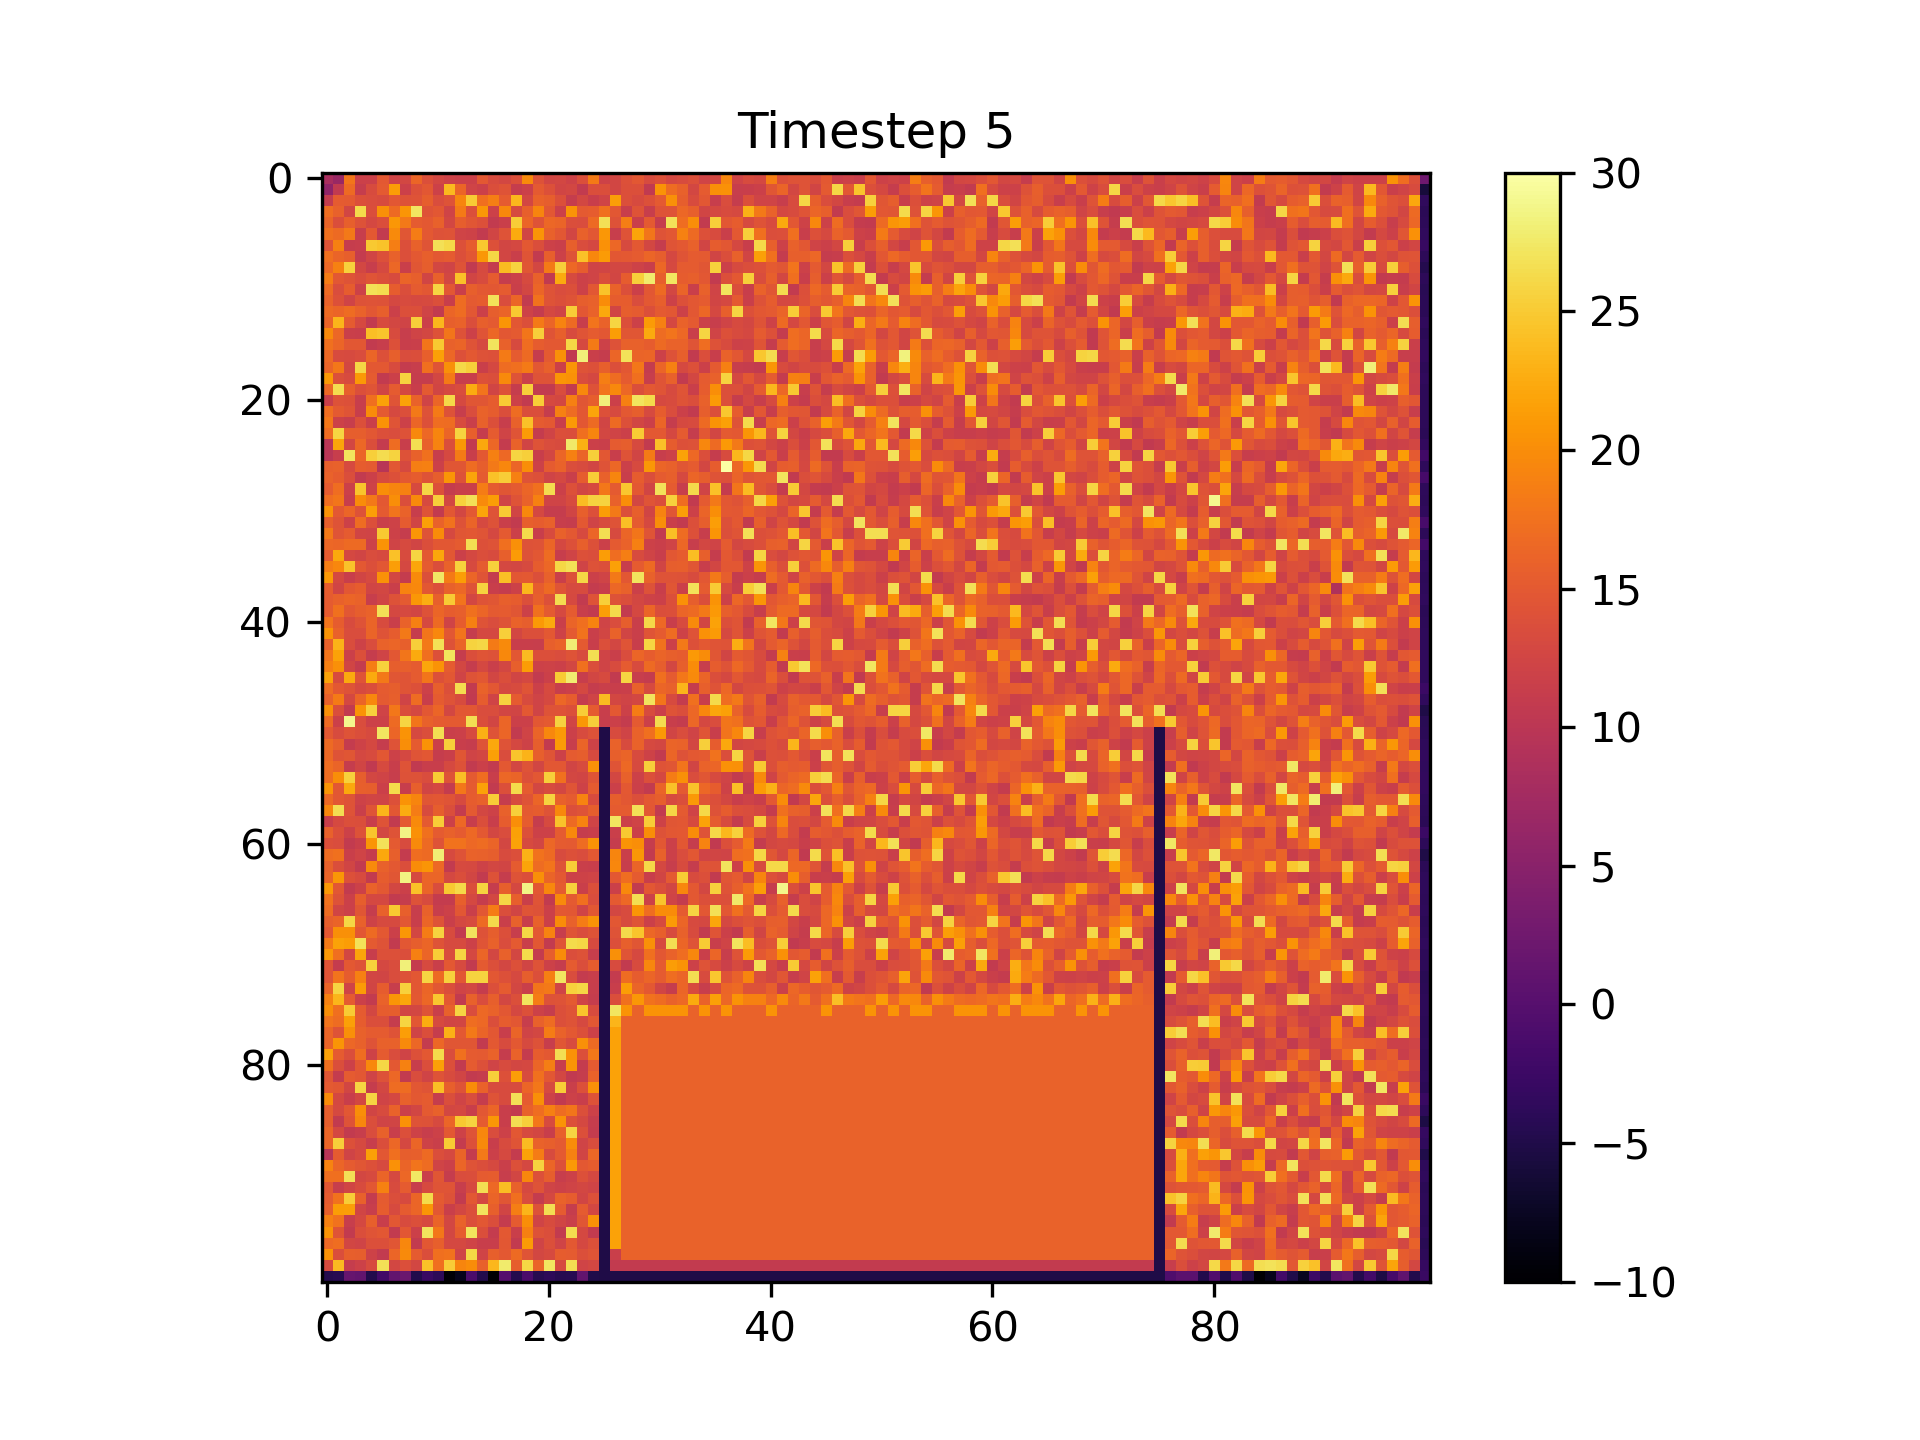
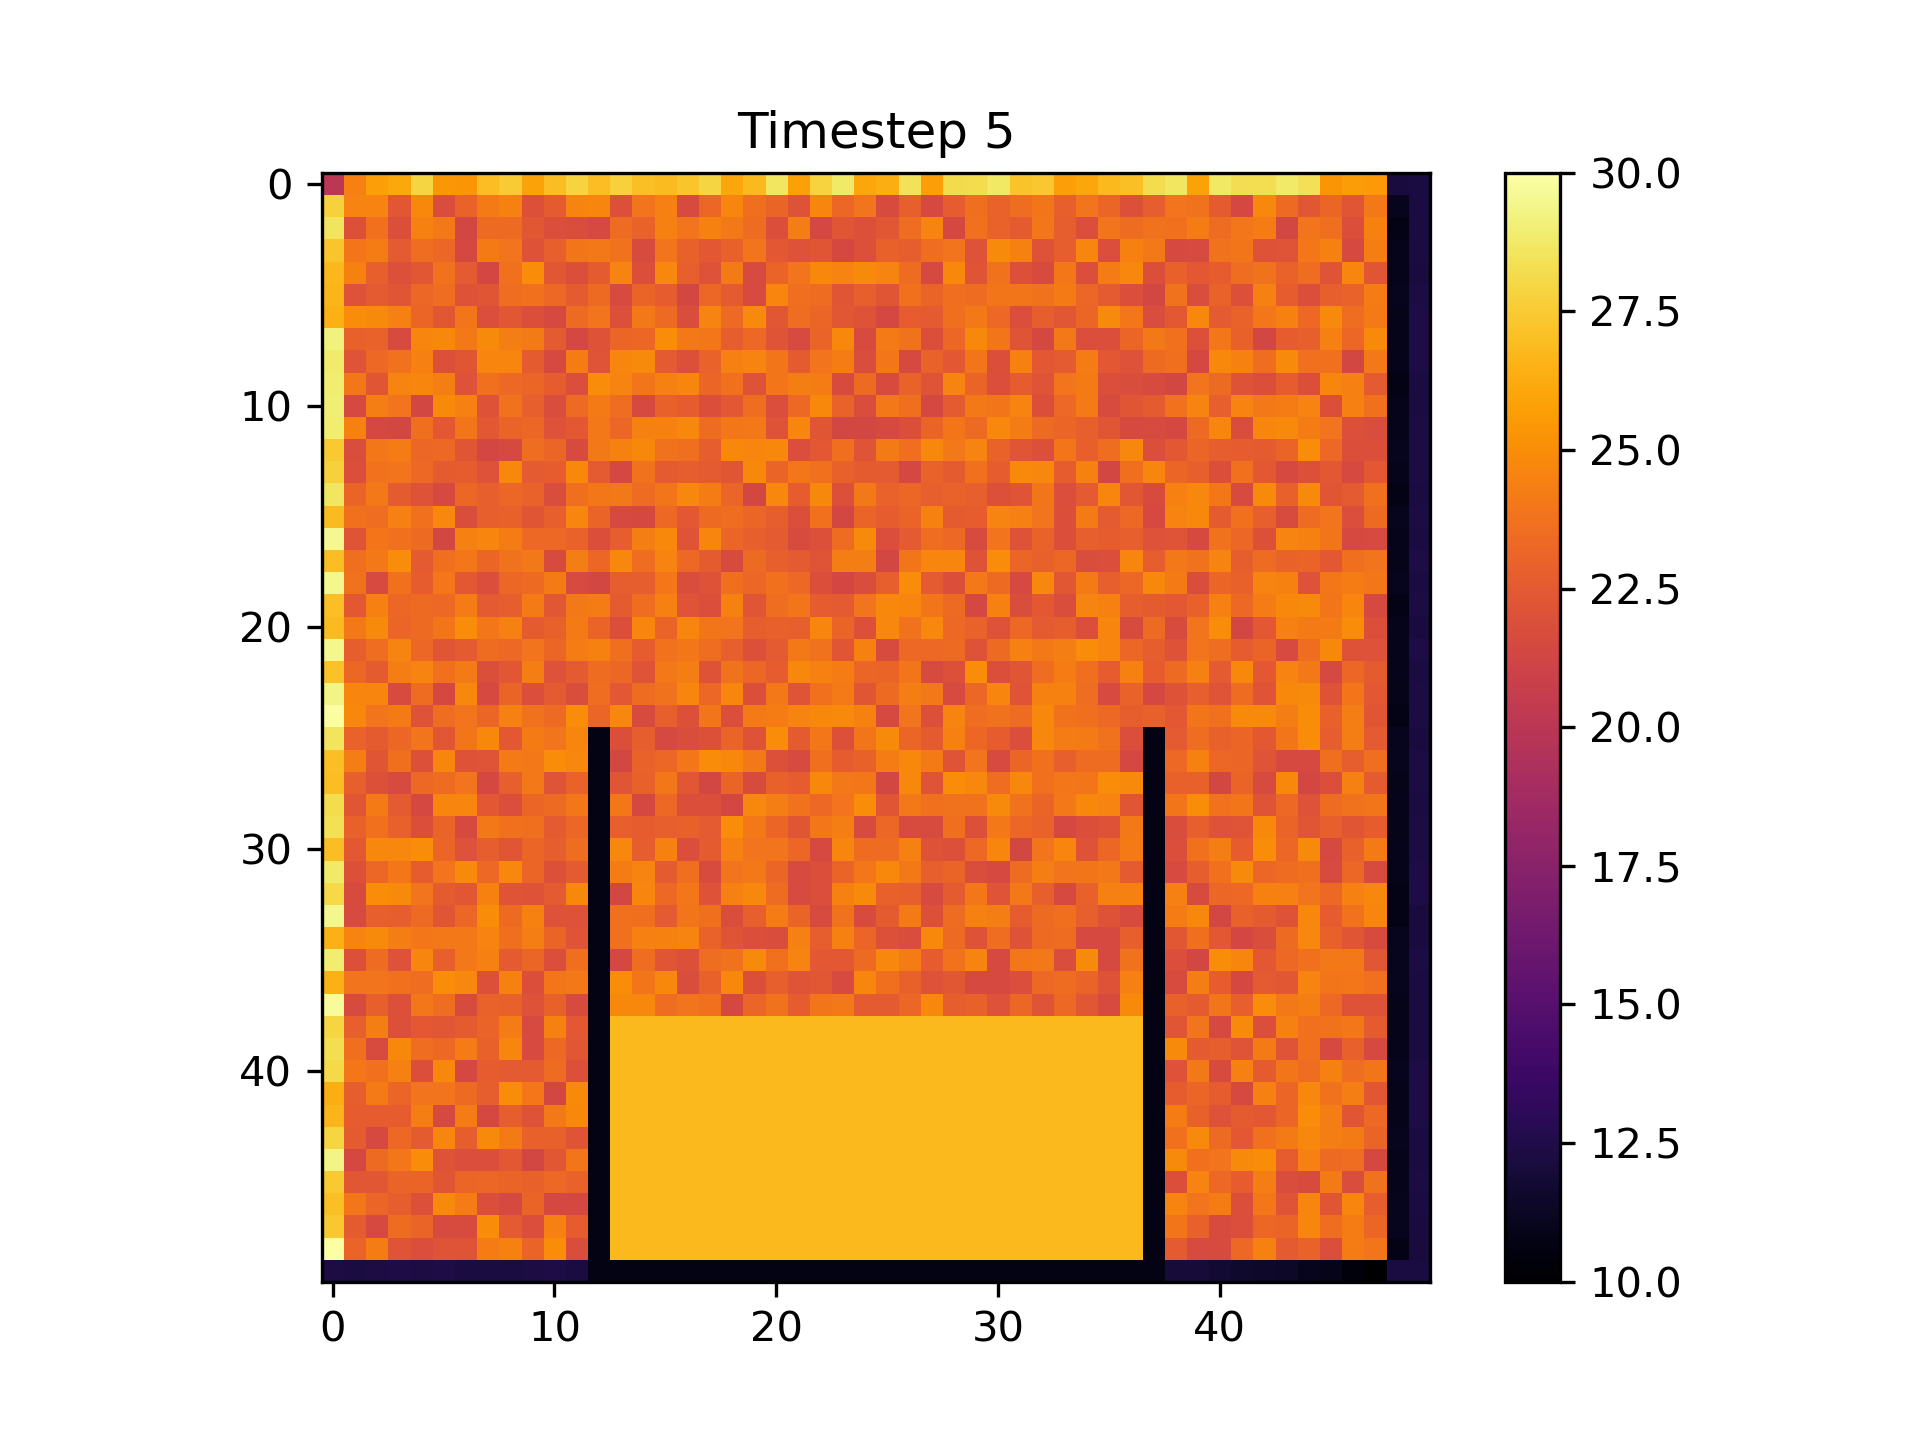
temperature loss to external system

diff --git a/physics.py b/physics.py
@@ -130,46 +130,41 @@ def containerFill(container, temperature=20):
 #                       PHYSICS STUFF
 
 
-def diffusion(in_raster, resX, resY, diffusion_index, container_temp):
+def diffusion(in_raster, resX, resY, diffusion_index, container_temp, loss_over_time, iteration):
 
     """Calculates how much the liquid rises and diffuses energy
     because of its temperature.
 
     - based on input raster with temperatures """
 
-    temporary_raster = np.zeros(shape=(resX, resY), dtype=int)
-    edges = [[0, resY-1],[resX-1, 0],[0, resX-1],[resY-1, 0]]
-    for edge in edges:
-        np.put(temporary_raster,edge,20)
-        print(temporary_raster)
 
+    #set up a temporary raster to allow for energy transfer and pad the array to account for external influence
+    temporary_raster = np.full(shape=(resX, resY), fill_value=20)
+    temporary_raster[1:-1, 1:-1]=0
+
+    #loop through and calculate energy transfer per cell
     x = 0
-
     while x < resX-1:
 
         y = 0
-        while y < resY-1:
+        while y < resY-2:
 
-            temporary_raster = decider_diffusion(in_raster,temporary_raster,x,y, diffusion_index)
+            temporary_raster = decider_diffusion(in_raster,temporary_raster,x,y, diffusion_index, loss_over_time)
             #print(decided)
 
             y+=1
         x+=1
 
+    # pad again
+    pad = np.full(shape=(resX, resY), fill_value=15 - (loss_over_time*iteration))
+    pad[1:-1, 1:-1] = 0
+    temporary_raster = np.add(temporary_raster, pad)
 
-
-
-
-
+    # add in_raster to temporary raster to compute diffusion of energy
     out_raster = np.add(in_raster, temporary_raster)
     return out_raster
 
-
-
-
-
-
-def decider_diffusion(in_raster, temporary_raster, x, y, diffusion_index):
+def decider_diffusion(in_raster, temporary_raster, x, y, diffusion_index, loss_over_time):
     '''decides from where to where diffusion is taking place'''
 
     pixel = in_raster[x, y]
@@ -186,8 +181,6 @@ def decider_diffusion(in_raster, temporary_raster, x, y, diffusion_index):
     max_index = neighbour_values.index(maximum)
 
     if pixel > maximum:
-        #value of pixel is highest in surroundings
-        #print("pixel value is {}, max value is {}".format(pixel, maximum))
 
         #calculation of energy exchange
         diff = pixel*diffusion_index
@@ -205,16 +198,10 @@ def decider_diffusion(in_raster, temporary_raster, x, y, diffusion_index):
                 print(count)
             else:
                 pass
-            temporary_raster[x, y] = pixel - diff
+            in_raster[x, y] = pixel - diff
             temporary_raster[tempX, tempY] += diff
 
-
-        #print("pixel at {},{} gave {} to temp_pixel at {},{}".format(x,y,diff,tempX,tempY))
-        #print("{},{}---->{},{}\n\n".format(x, y, tempX, tempY))
-
     elif pixel < minimum:
-        #value of pixel is lowest in surroundings
-        #print("pixel value is {}, min value is {}".format(pixel, minimum))
 
         # calculation of energy exchange
         diff = maximum * diffusion_index
@@ -231,15 +218,10 @@ def decider_diffusion(in_raster, temporary_raster, x, y, diffusion_index):
                 print(count)
             else:
                 pass
-            temporary_raster[x, y] += pixel+diff
+            in_raster[x, y] += pixel+diff
             temporary_raster[tempX, tempY] -= diff
 
-        #print("pixel at {},{} gave {} to temp_pixel at {},{}".format(x,y,diff,tempX,tempY))
-        #print("{},{}---->{},{}\n\n".format(x, y, tempX, tempY))
-
     elif minimum < pixel < maximum:
-        #value of pixel is in range of surrounding values
-        #print("pixel value is {}, range is from {} to {}".format(pixel, minimum, maximum))
 
         diff = maximum * diffusion_index
         tempX = x + (neighbouring_cells[max_index][0])
@@ -250,17 +232,18 @@ def decider_diffusion(in_raster, temporary_raster, x, y, diffusion_index):
             pass
 
         else:
-            temporary_raster[x, y] += pixel+diff
+            in_raster[x, y] += pixel+diff
             temporary_raster[tempX,tempY] -= diff
-
-        #print("pixel at {},{} gave {} to temp_pixel at {},{}".format(x,y,diff,tempX,tempY))
-        #print("{},{}---->{},{}\n\n".format(x,y,tempX,tempY))
 
     else:
         #print("What the hell happened here at pixel {},{}??".format(x,y))
         pass
 
-    return temporary_raster
+
+
+
+    #calculate energy loss over time and return the calculated raster
+    return temporary_raster*(1-loss_over_time)
 
 def maxCounter(list):
 

diff --git a/visualizer.py b/visualizer.py
@@ -12,17 +12,18 @@ from convectionModel.physics import *
 
 
 # raster size and timesteps
-resX = 100
+resX = 50
 resY = resX
 dpi = 300
 timesteps = 10
-container_temp = -10
+container_temp = 10
 
-# fill temperature and height of pre-filled liquid
+# fill temperature and height of pre-filled liquid as well as energy lost to the exterior of the system
 pre_fill = True
 fill_temp = 30
 filling_height = 0.75
-diffusion_index = 0.5
+diffusion_index = 0.1
+loss_over_time = diffusion_index*2
 
 # set up list to convert output to gif
 out_rasters = []
@@ -50,7 +51,7 @@ while iteration < timesteps:
         #get materials from initial raster
         mats = materials(temperature_raster, resX, resY, fill_temp)
         # calculate temperature diffusion and updraft
-        temperature_raster = diffusion(temperature_raster, resX, resY, diffusion_index, container_temp)
+        temperature_raster = diffusion(temperature_raster, resX, resY, diffusion_index, container_temp, loss_over_time, iteration)
 
 
         # add container
@@ -85,9 +86,9 @@ print("creating .gif...")
 
 images = []
 
-for raster in out_rasters:
-    images.append(imageio.imread(raster))
-    imageio.mimsave('gifs/convection.gif', images, duration=gif_duration)
+#for raster in out_rasters:
+    #images.append(imageio.imread(raster))
+    #imageio.mimsave('gifs/convection.gif', images, duration=gif_duration)
 
 
 print("done")
